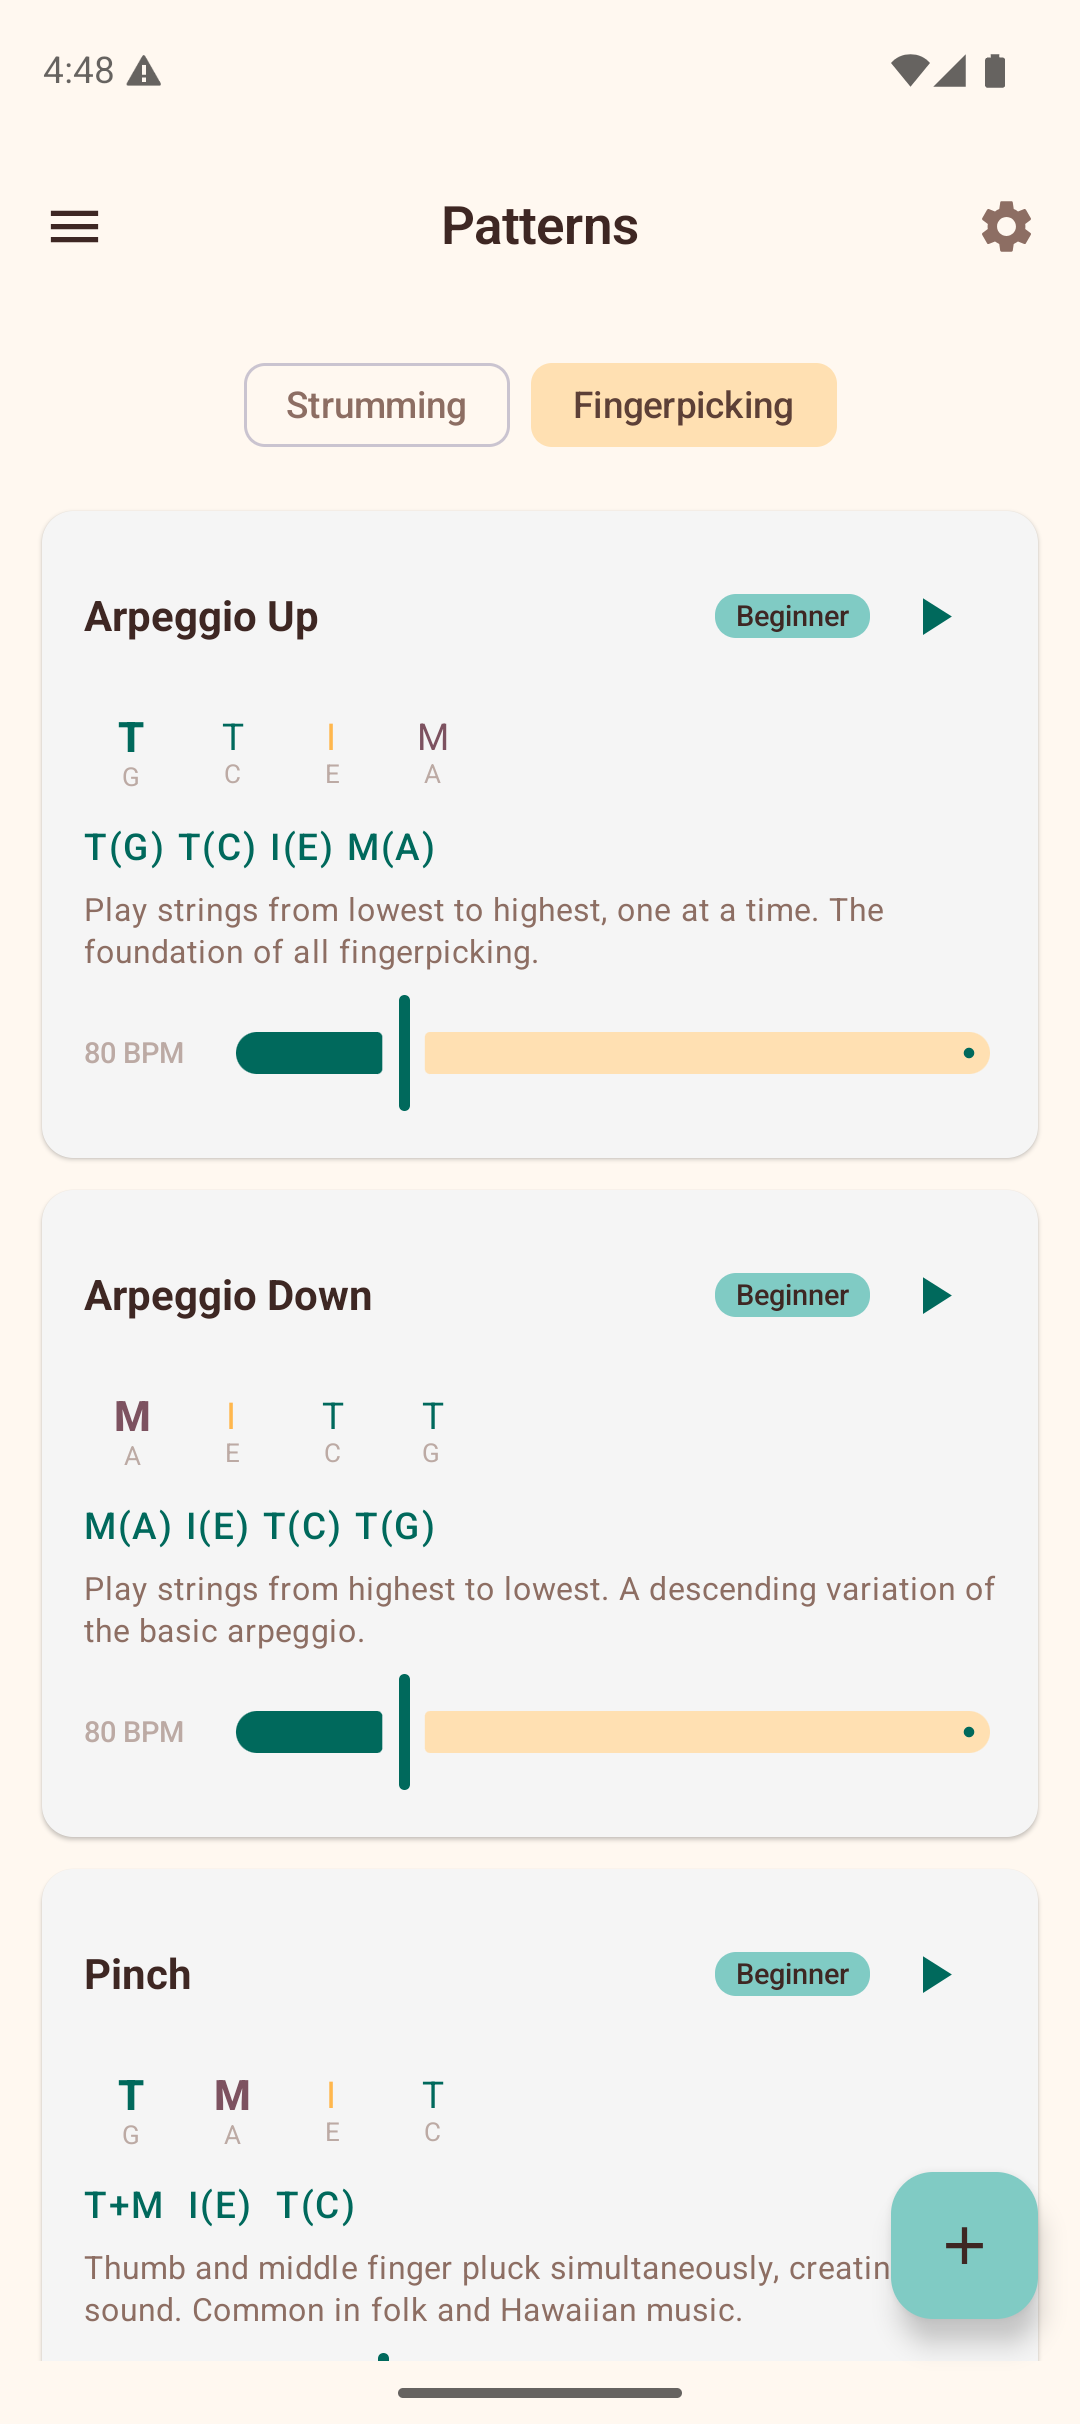
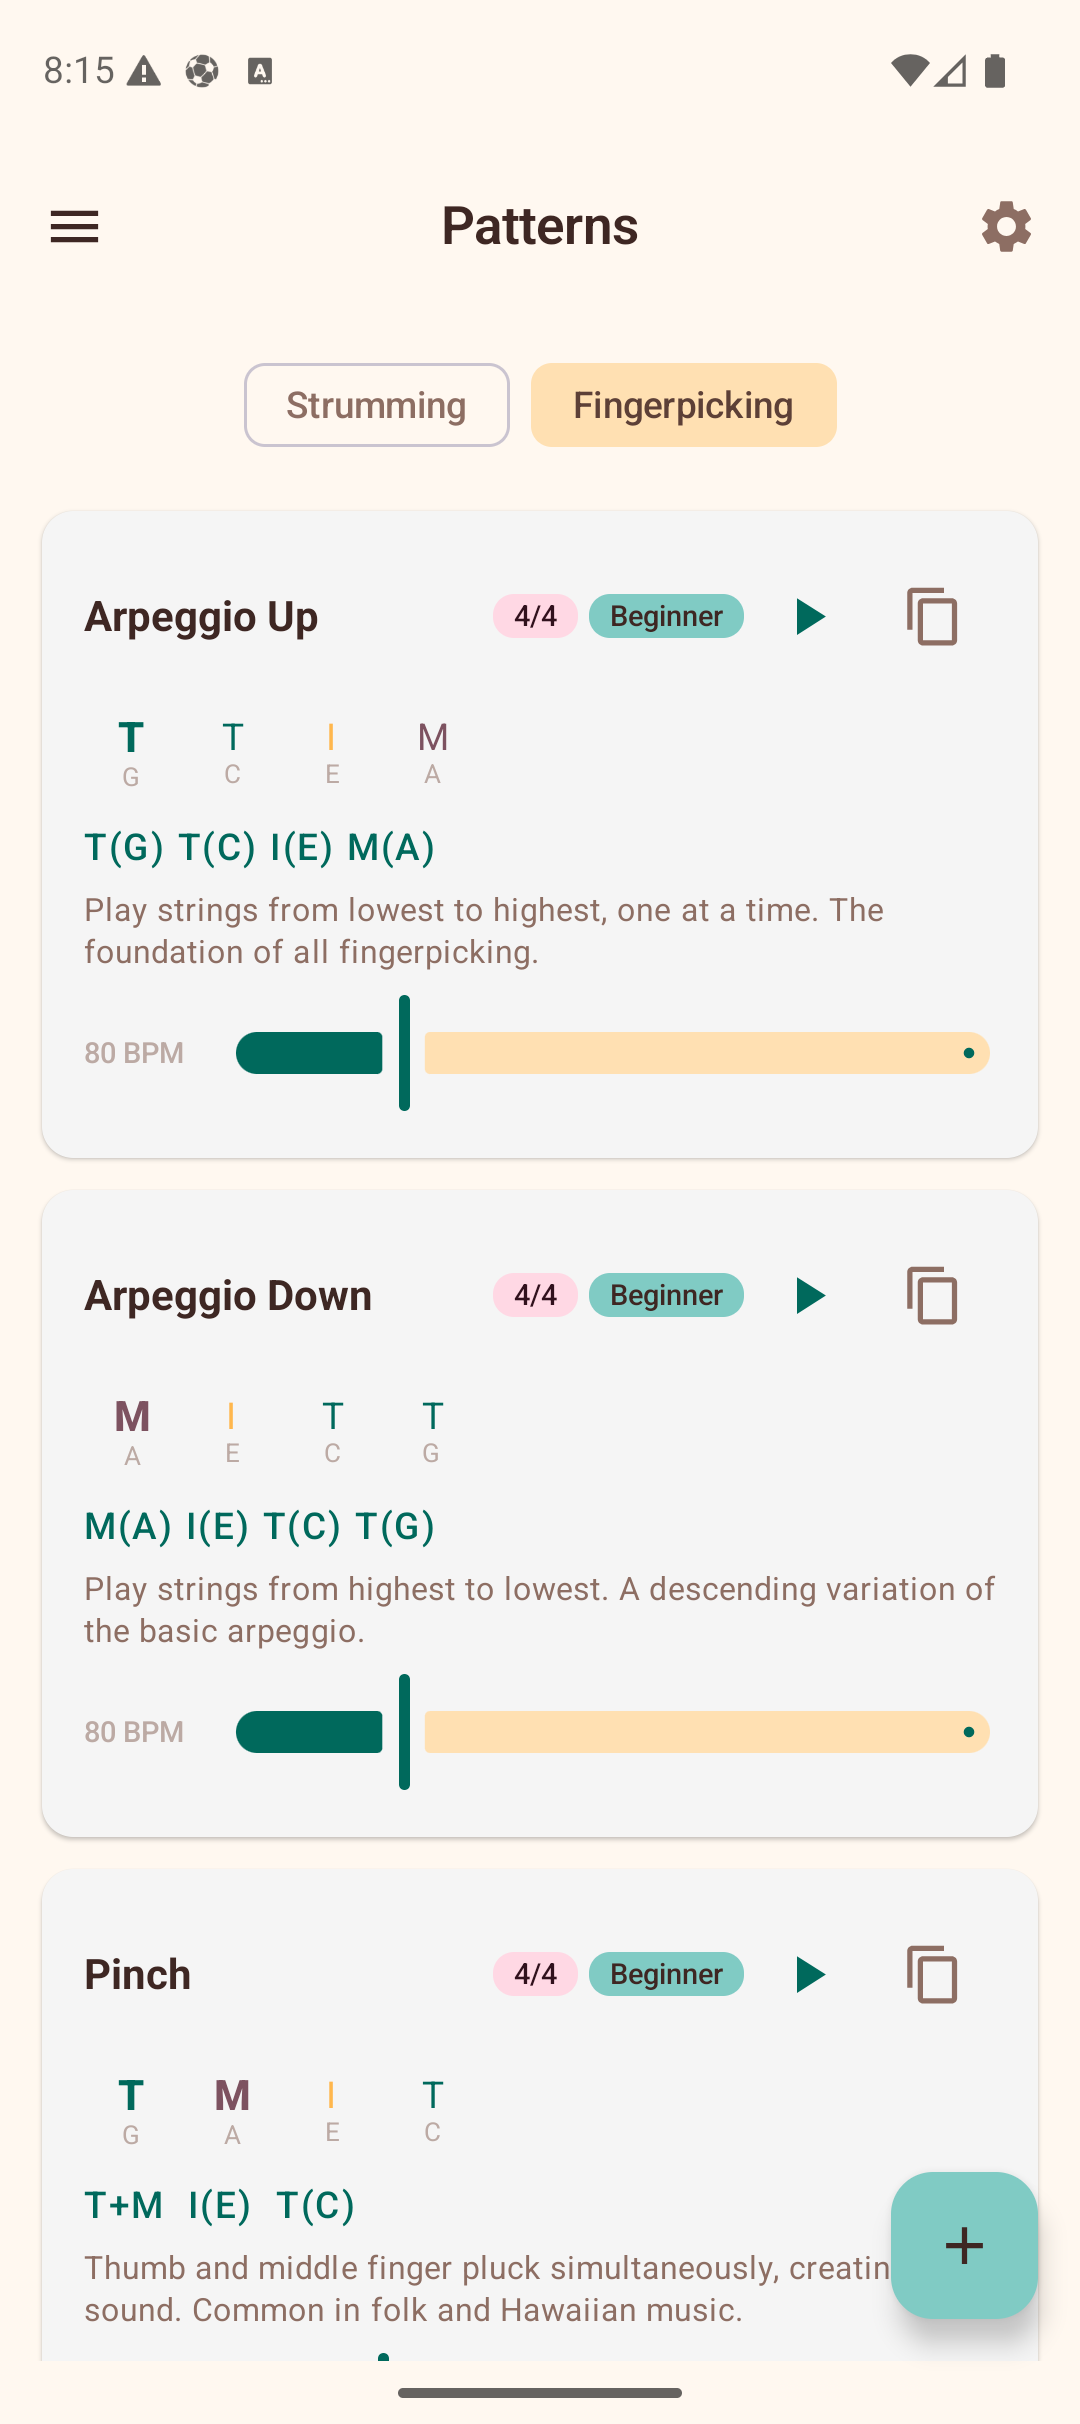
Docs: update Patterns manual with new screenshots and feature documentation
- Recapture strumming and fingerpicking screenshots showing time signature badges, duplicate, and edit buttons
- Document time signature badges, duplicate, edit, and delete confirmation features
- Document time signature picker in custom pattern creation
- Add tips about using duplicate + edit workflow

diff --git a/docs/manual/04-patterns.md b/docs/manual/04-patterns.md
@@ -8,35 +8,44 @@ The Patterns section provides a reference guide for strumming and fingerpicking 
 
 The **Strumming** tab shows a list of preset strumming patterns, from beginner to advanced. Each pattern card includes:
 
-- **Name** — e.g., "Island Strum", "Calypso", "Ska".
+- **Name** — e.g., "Island Strum", "Calypso", "6/8 Ballad".
+- **Time signature badge** — shows the time signature the pattern is designed for (e.g., 4/4, 3/4, 6/8).
 - **Difficulty badge** — Beginner, Intermediate, or Advanced.
 - **Play button** — tap the play icon to hear the pattern played on open strings. The currently active beat highlights as it plays. Tap the stop icon to stop playback. Only one pattern plays at a time.
+- **Duplicate button** — tap the copy icon to duplicate any pattern (preset or custom) into your custom patterns. The copy appears in "My Patterns" with " (Copy)" appended to the name.
 - **Visual beat arrows** — down arrows, up arrows, chuck, and miss/pause indicators showing the rhythmic pattern. The active beat is highlighted during playback.
 - **Notation** — a text representation of the pattern (e.g., "D - D U - U D U").
 - **Description** — a brief explanation of the pattern and when to use it.
 - **Genre tags** — musical styles the pattern suits (e.g., Hawaiian, Pop, Folk).
 - **BPM slider** — adjust the playback tempo. Defaults to the midpoint of the pattern's suggested range.
 
-### Creating Custom Patterns
+### Managing Custom Patterns
 
 Tap the **+ button** (floating action button) in the bottom-right corner to create your own strumming pattern:
 
 1. Enter a **pattern name**.
-2. Tap each **beat slot** to cycle through directions: Down, Up, Chuck, Miss, and Pause.
-3. Tap the **accent row** below to toggle emphasis on individual beats (accented beats are shown louder/bolder).
-4. Tap **Save** to add it to your custom patterns.
+2. Select a **time signature** (2/2, 2/4, 3/4, 4/4, 5/4, 7/4, 6/8, 7/8, 9/8, 11/8, or 12/8).
+3. Tap each **beat slot** to cycle through directions: Down, Up, Chuck, Miss, and Pause.
+4. Tap the **accent row** below to toggle emphasis on individual beats (accented beats are shown louder/bolder).
+5. Tap **Save** to add it to your custom patterns.
 
-Your custom patterns appear in a **"My Patterns"** section at the top of the list. Each custom pattern has a **delete button** to remove it and supports playback like the preset patterns.
+Your custom patterns appear in a **"My Patterns"** section at the top of the list. Custom patterns have additional actions:
+
+- **Edit** — tap the pencil icon to open the pattern in the editor with all fields pre-populated for modification.
+- **Duplicate** — tap the copy icon to create a copy you can then edit independently.
+- **Delete** — tap the trash icon. A confirmation dialog appears before the pattern is permanently removed.
 
 ## Fingerpicking Patterns
 
 ![Fingerpicking patterns](screenshots/patterns-fingerpicking.png)
 
-The **Fingerpicking** tab shows reference patterns for fingerstyle playing. Each card includes:
+The **Fingerpicking** tab shows reference patterns for fingerstyle playing, including patterns in 4/4, 3/4, and 6/8 time. Each card includes:
 
-- **Name** — e.g., "Arpeggio Up", "Travis Pick", "Clawhammer".
+- **Name** — e.g., "Arpeggio Up", "Travis Pick", "6/8 Arpeggio", "Clawhammer".
+- **Time signature badge** — shows the time signature (e.g., 4/4, 3/4, 6/8).
 - **Difficulty badge** — Beginner or Intermediate.
 - **Play button** — tap to hear each note plucked in sequence on the open strings. The active step highlights during playback.
+- **Duplicate button** — copy any pattern into your custom patterns.
 - **Finger step display** — color-coded indicators showing which finger (Thumb, Index, Middle, Ring) plucks which string (G, C, E, A) at each step. The active step is highlighted during playback.
 - **Notation** — a text representation of the fingerpicking sequence (e.g., "T(G) T(C) I(E) M(A)").
 - **Description** — guidance on technique and musical context.
@@ -49,10 +58,13 @@ The finger indicators use distinct colors for each finger, making it easy to fol
 Tap the **+ button** on the Fingerpicking tab to create your own pattern:
 
 1. Enter a **pattern name**.
-2. Adjust the number of steps (2–8) with the +/− buttons.
-3. Tap a step to select it, then choose the **finger** and **string** from the chip rows below.
-4. Tap the **accent row** to toggle emphasis on individual steps.
-5. Tap **Save** to add it to your custom patterns.
+2. Select a **time signature** from the available options.
+3. Adjust the number of steps (2–8) with the +/− buttons.
+4. Tap a step to select it, then choose the **finger** and **string** from the chip rows below.
+5. Tap the **accent row** to toggle emphasis on individual steps.
+6. Tap **Save** to add it to your custom patterns.
+
+Custom fingerpicking patterns support the same **edit**, **duplicate**, and **delete** actions as custom strumming patterns.
 
 ## Tips
 
@@ -60,4 +72,5 @@ Tap the **+ button** on the Fingerpicking tab to create your own pattern:
 - Use the **play button** to hear each pattern — listening is much more effective than reading notation alone.
 - Adjust the **BPM slider** to start slow and gradually increase speed as you get comfortable.
 - Playback uses the open strings of your selected tuning, so it matches whatever tuning you have configured in Settings.
-- Create custom patterns to save patterns you learn from songs or teachers.
+- Use **duplicate** to copy a preset pattern, then **edit** it to create your own variation.
+- The time signature badge helps you match patterns to songs — most pop/rock is 4/4, waltzes are 3/4, and ballads like "House of the Rising Sun" are 6/8.
